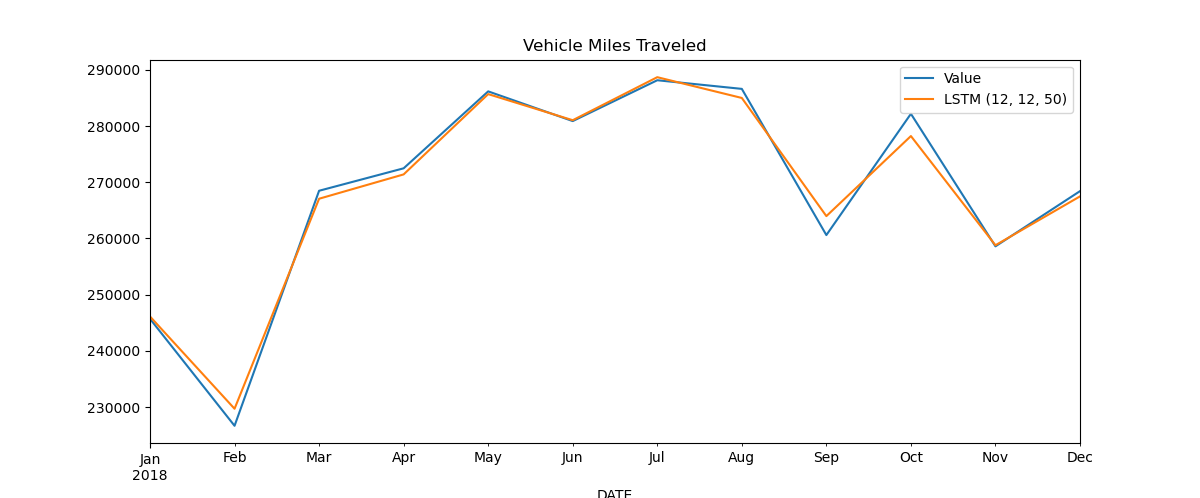
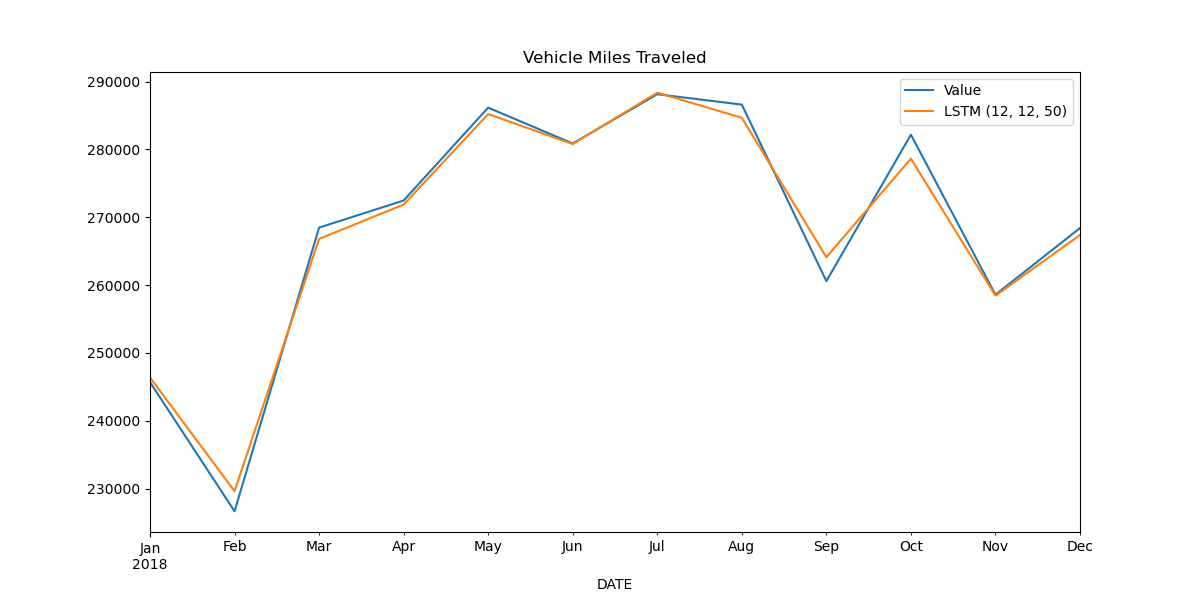
Adjusted figsize to not crop x-axis label

diff --git a/prediction.py b/prediction.py
@@ -147,7 +147,7 @@ if __name__ == '__main__':
     
     # To try multiple combinations, copy these lines and modify the 3 variables
     """
-    n_input, n_preds, epochs = 12, 6, 1
+    n_input, n_preds, epochs = 12, 12, 20
     temp_test, strout, preds = lstm(n_input, n_preds, df, epochs)
     if len(temp_test) > len(test):
         test = pd.concat([test, temp_test.iloc[:-len(test)]])
@@ -156,6 +156,6 @@ if __name__ == '__main__':
     """
 
     
-    test.plot(figsize=(12, 5), title='Vehicle Miles Traveled')
+    test.plot(figsize=(12, 6), title='Vehicle Miles Traveled')
 
     print('RMSE errors: {}'.format(errors))
